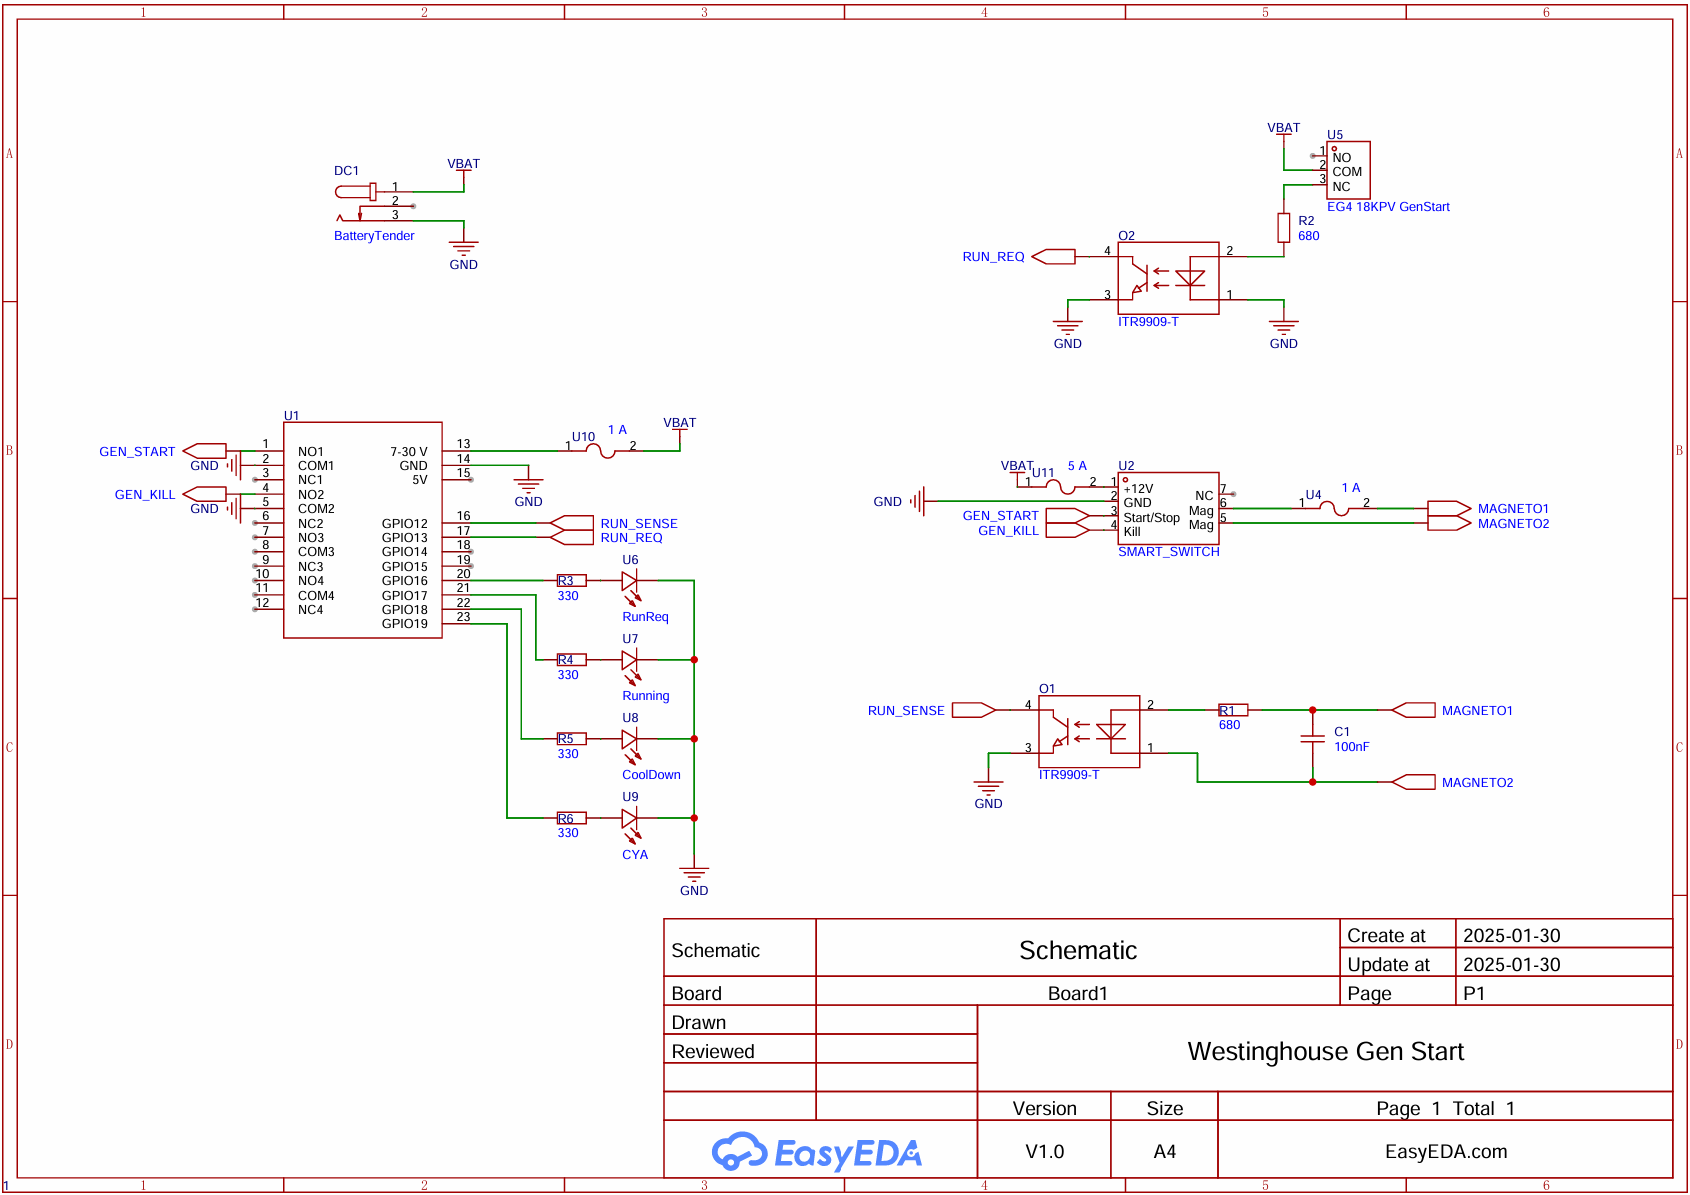
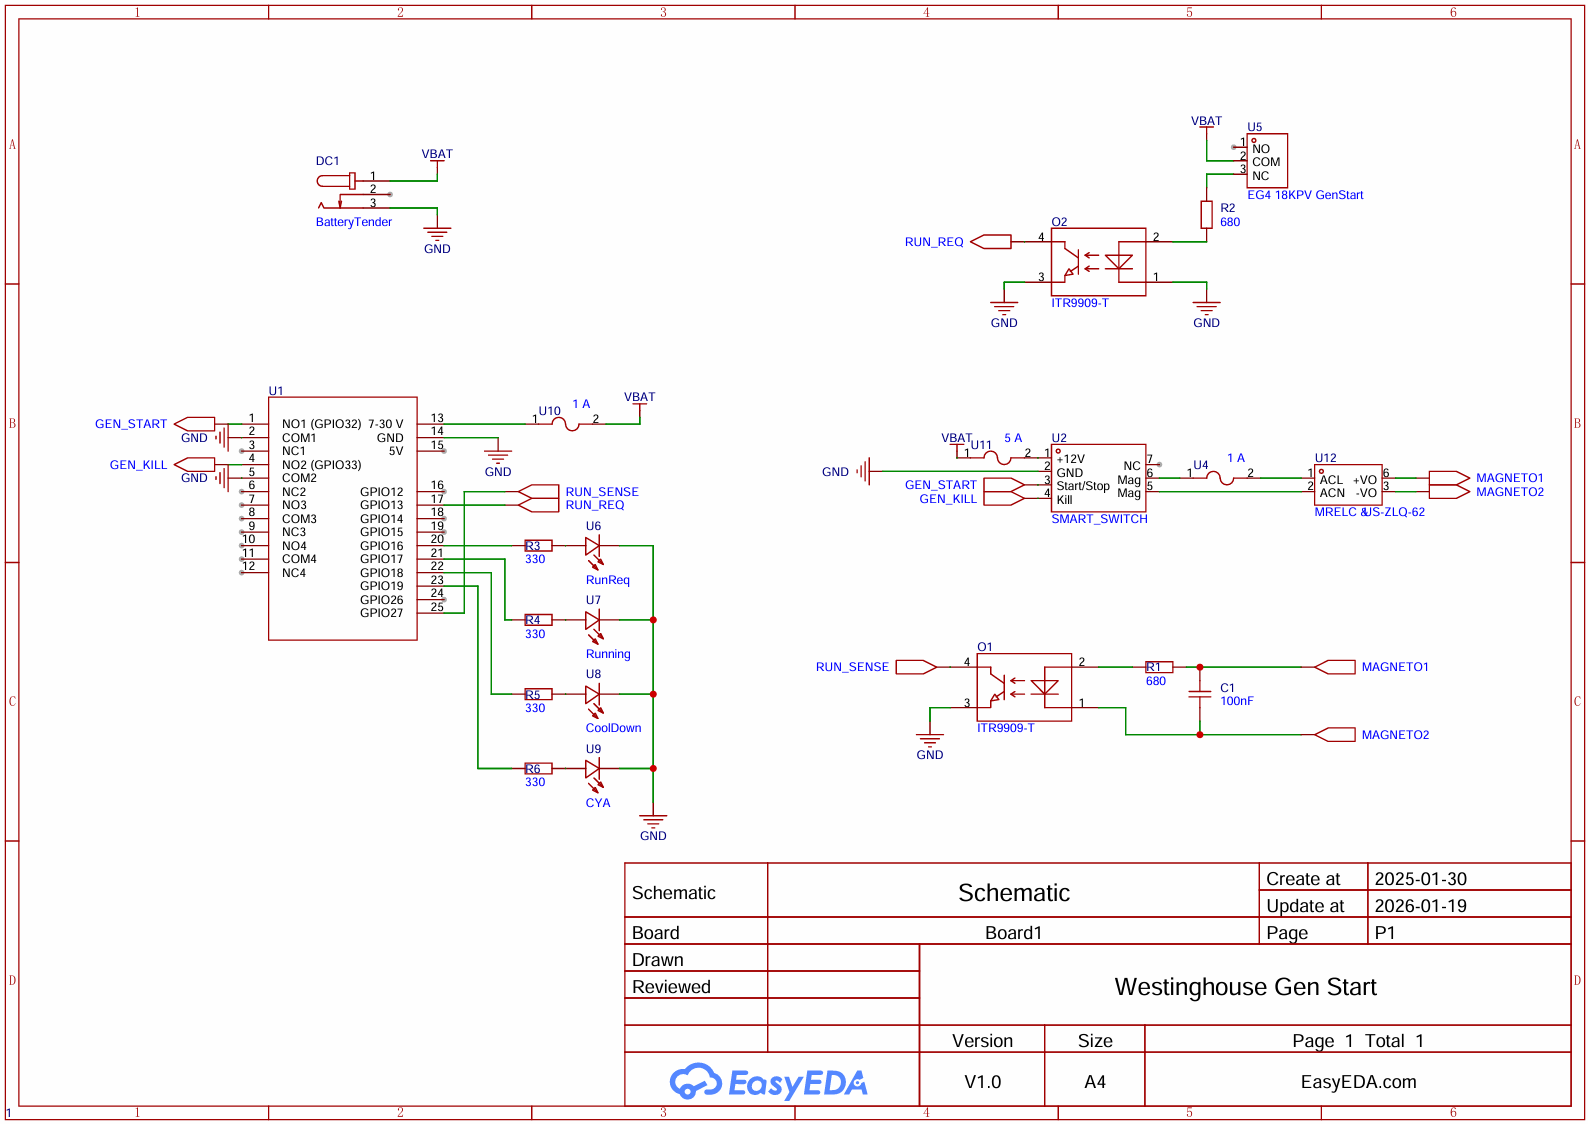
Move the RunSense input to GPIO27 to avoid bootloader mode on power glitches

diff --git a/main.py b/main.py
@@ -46,12 +46,12 @@ def get_current_minutes():
     elapsed_minutes = (time.ticks_ms() - rtc_base_ticks) // 60000
     return (rtc_base_minutes + elapsed_minutes) % 1440
 
-in_run_sense = machine.Pin(12, machine.Pin.IN, machine.Pin.PULL_UP)
 in_run_request = machine.Pin(13, machine.Pin.IN, machine.Pin.PULL_UP)
 led_run_request = machine.Pin(16, machine.Pin.OUT)
 led_running = machine.Pin(17, machine.Pin.OUT)
 led_cool_down = machine.Pin(18, machine.Pin.OUT)
 led_maintenance = machine.Pin(19, machine.Pin.OUT)
+in_run_sense = machine.Pin(27, machine.Pin.IN, machine.Pin.PULL_UP)
 relay_start_gen = machine.Pin(32, machine.Pin.OUT)
 relay_kill_gen = machine.Pin(33, machine.Pin.OUT)
 

diff --git a/README.md b/README.md
@@ -13,12 +13,12 @@ This project provides firmware for an ESP32-based adapter that automates the sta
 ## Pin Assignments
 | Function                | ESP32 Pin |
 |-------------------------|-----------|
-| Run Sense Input         | 12        |
 | Run Request Input       | 13        |
 | Run Request LED         | 16        |
 | Running LED             | 17        |
 | Cool Down LED           | 18        |
 | Maintenance LED         | 19        |
+| Run Sense Input         | 27        |
 | Start Generator Relay   | 32        |
 | Kill Generator Relay    | 33        |
 
